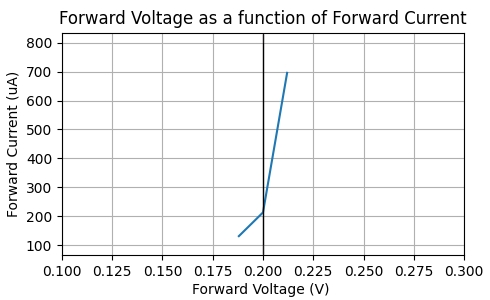
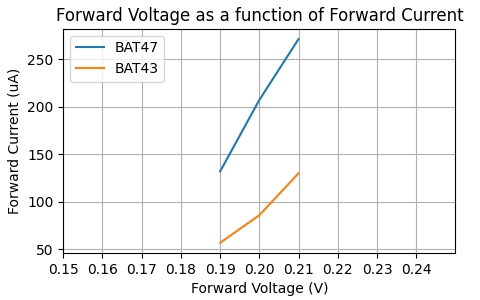
PX625 new test
Did a new test adding the BAT43 diode

Changed region(s): [[0.0, 0.03, 1.0, 0.99]]

diff --git a/projects/normal/PX625_adapter/project.html b/projects/normal/PX625_adapter/project.html
@@ -114,23 +114,26 @@
 			This diode must be carefully selected so that it drops as much voltage as needed.
 			The selection becomes a bit complicated because the diode's forward voltage is a function of the current drawn through it.
 			Ideally, the current draw of each application should be measured before selecting the diode.
-			The diode for this adaptor was chosen by assuming most old light meters draw between 1mA and 1uA of current.
-			After going through datasheets of various diodes, the BAT47 schottky diode was chosen.
+			The diode for this adaptor was chosen by assuming most old light meters draw between 0.5mA and 1uA of current.
+			After going through datasheets of various diodes, the BAT47 and BAT43 schottky diodes were chosen.
 		</p>
 		<img src="/projects/normal/PX625_adapter/datasheetGraph.jpg" alt="datasheetGraph.jpg" title="Datasheet characteristics for BAT47 diode">
 		<p>
-			After purchasing the diodes, their forward voltage was tested.
-			The battery's voltage was imitated with a power supply at 1.55V and a trimmer potentiometer was used as the load.
+			After purchasing the diodes, their forward voltage was tested. A new 1.55V 386 silver-oxide battery was used for the test.
+			The battery was discharged slightly through a resistor prior to using it in order to skip the higher voltage region at the beginning of its lifespan.
+			A potentiometer was used as the load and the schottky diodes were connected in series with the load and the battery.
+			The resistance of the load was altered until forward voltages of 0.19, 0.2 and 0.21 Volts were measured on the diodes.
+			The current draw was then measured for each forward voltage on the two diodes.
 		<p>
 		<img src="/projects/normal/PX625_adapter/diodeTest.jpg" alt="diodeTest.jpg" title="Forward voltage test">
 		</p>
-			The BAT47 diode's forward voltage was probed at 0.2V for a forward current  of 213uA.
-			Furthermore, it is operating within 6% error of the required 0.2V for a wide region of forward currents within the wanted range (1uA - 1mA).
-			In fact its forward voltage drops to 0.188V at a forward current of 131uA and reaches 0.212V for a forward current of 696uA.
+			The BAT47 diode's forward voltage was probed at 0.2V for a forward current  of 207uA while the BAT43 diode dropped that much voltage at 86uA.
+			Choosing which one of the two to use requires further understanding of the electronics and current draw of each application.
+			The results are as follow:
 		</p>
-		<img src="/projects/normal/PX625_adapter/diodeTestResults.jpg" alt="diodeTestResults.jpg" title="Test results for BAT47 diode">
+		<img src="/projects/normal/PX625_adapter/diodeTestResults.jpg" alt="diodeTestResults.jpg" title="Test results for diodes">
 		<p>
-
+			Nevertheless, the BAT43 diode is a safe bet for most applications and it is the diode used with other such adaptors.
 		</p>
 		<h3>
 			Circuit
@@ -176,8 +179,7 @@
 		</p>
 		<p class="secondary">
 			Some battery compartments require electrical contact with the battery on its side.
-			This adapter is plastic on its side and this could be a problem in such an application.
-			Aluminum foil carefully wrapped on the appropriate side of the adaptor and around it could possibly solve this problem (not tested).
+			This adapter is plastic on its side and this will be a problem in such an application.
 		</p>
 		<h3>
 			User manual
